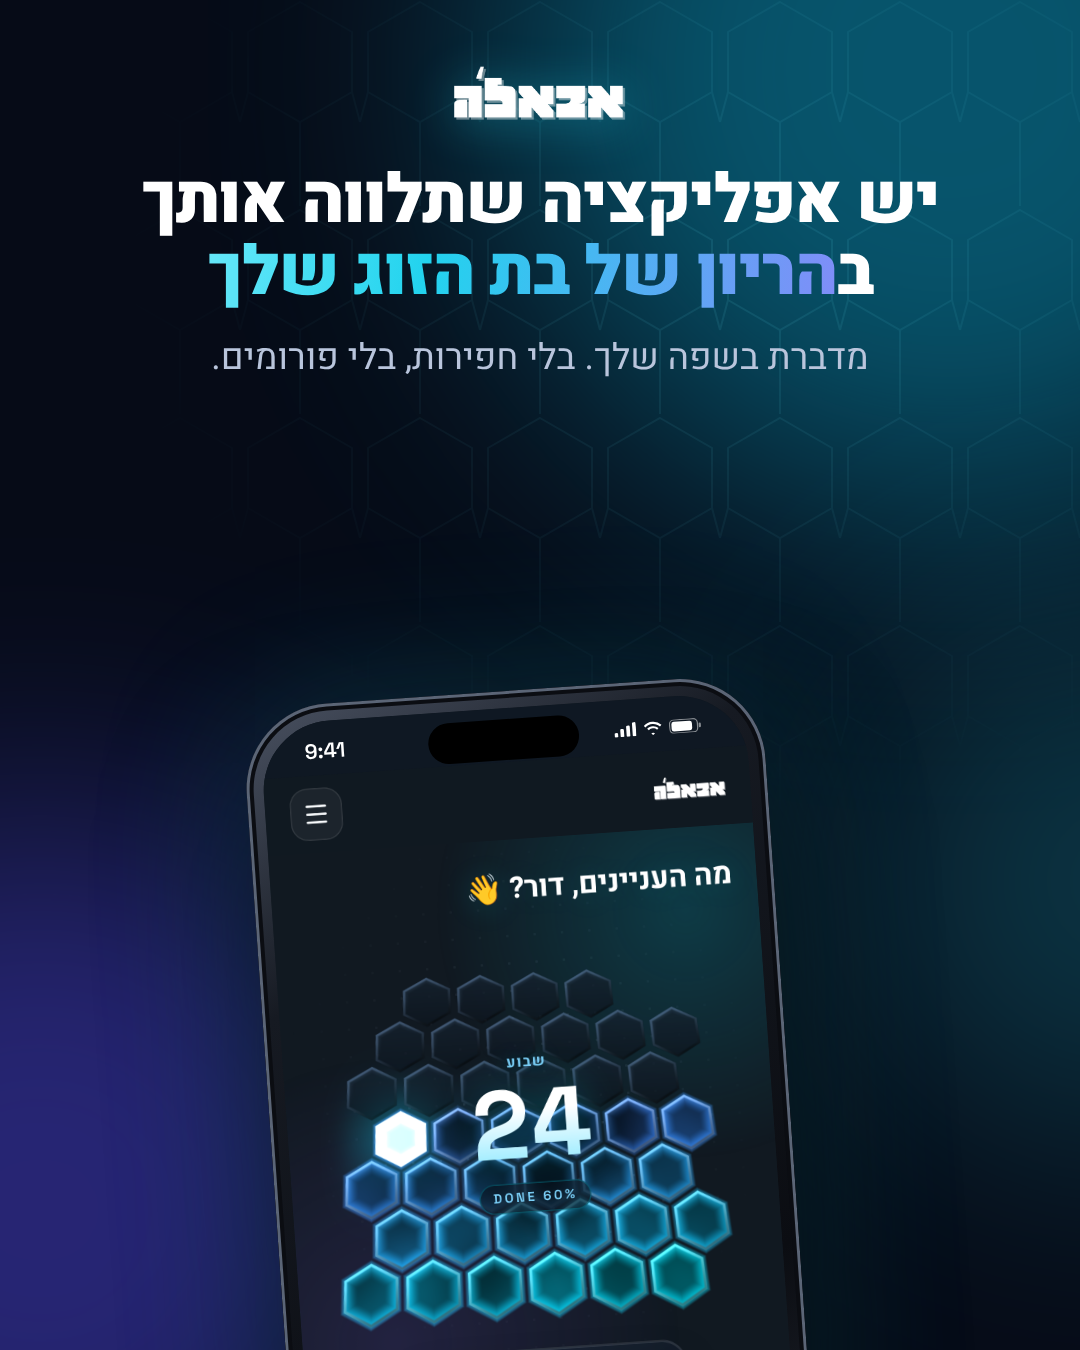
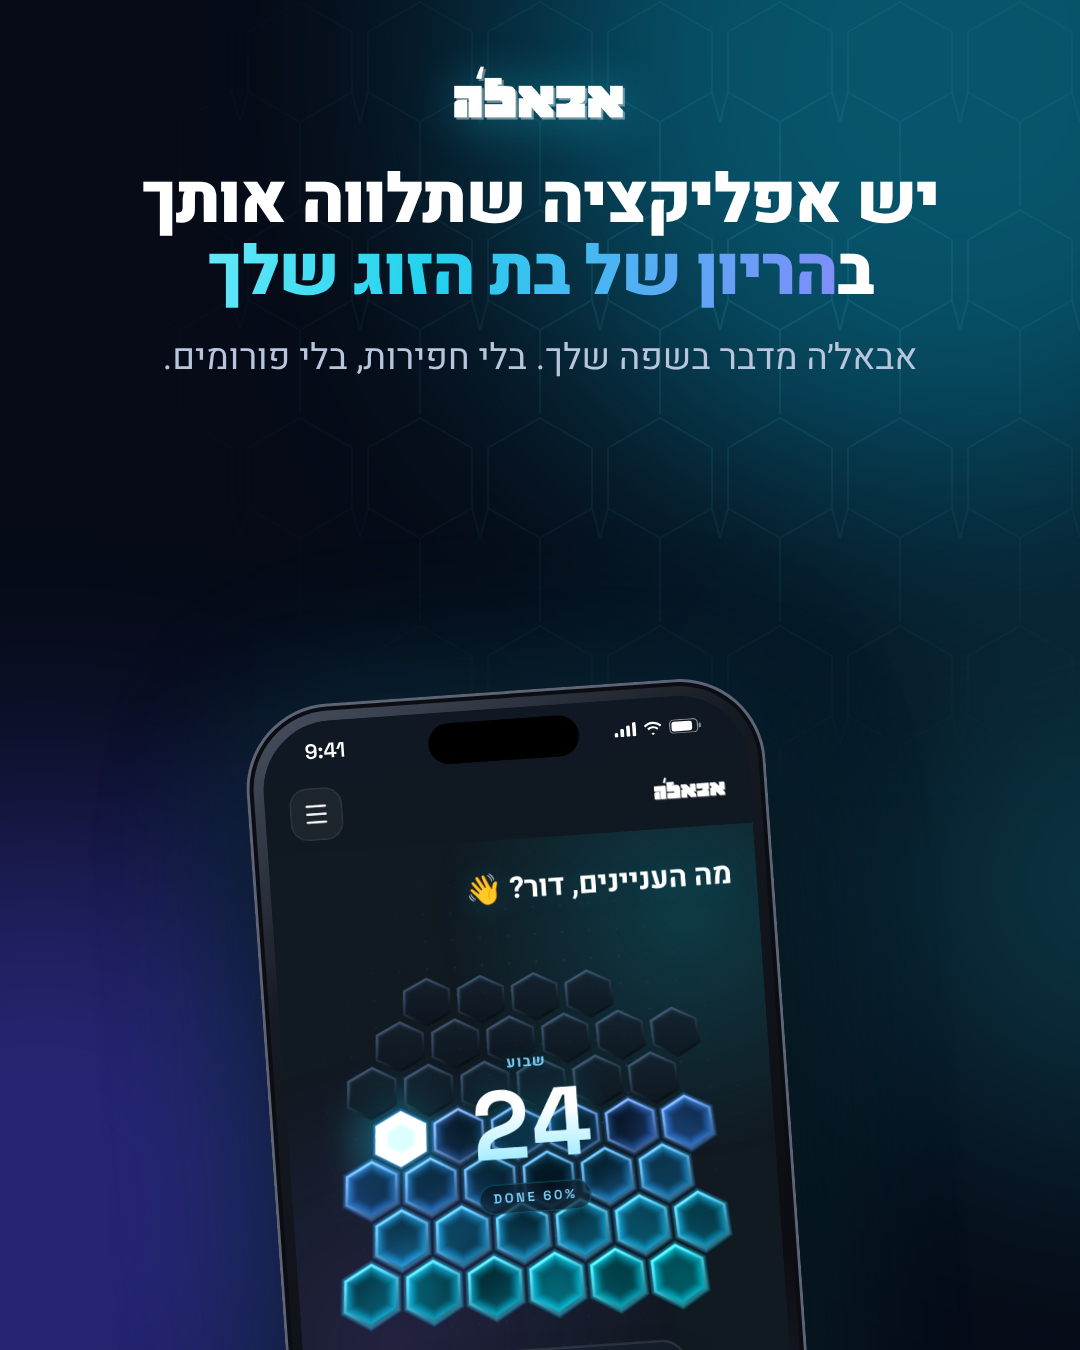
אבאל'ה בלשון זכר בפרסומות ובכיתובים
Claude-Session: https://claude.ai/code/session_01YWA97Ag6nK2YUFNDHResN8

Changed region(s): [[0.1528, 0.2489, 0.8556, 0.28]]

diff --git a/marketing/README.md b/marketing/README.md
@@ -23,7 +23,7 @@
 
 **03 – מה קורה עם בת הזוג**
 > היא עייפה, יש לה צרבות והגב כואב, ואתה לא בטוח מה עוזר.
-> כל שבוע אבאל'ה מסבירה מה עובר עליה ואיך אתה יכול לעזור. בלי לנחש.
+> כל שבוע אבאל'ה מסביר מה עובר עליה ואיך אתה יכול לעזור. בלי לנחש.
 
 **04 – משימות**
 > "מה אני יכול לעשות?" שאלה מצוינת. הנה רשימה.
@@ -54,7 +54,7 @@
 
 ## רעיונות לסרטוני טיקטוק (15–30 שניות)
 
-1. **"תרגום לאבא"** – אתה מול המצלמה. כתובית: "האפליקציות אומרות שהתינוק בגודל של חציל". חיתוך לפרצוף מבולבל. "אבאל'ה אומרת: נעל פקקים." חיתוך למסך האפליקציה. לחזור על זה עם 3–4 שבועות.
+1. **"תרגום לאבא"** – אתה מול המצלמה. כתובית: "האפליקציות אומרות שהתינוק בגודל של חציל". חיתוך לפרצוף מבולבל. "אבאל'ה אומר: נעל פקקים." חיתוך למסך האפליקציה. לחזור על זה עם 3–4 שבועות.
 2. **POV** – מצלמה מול הבן זוג. היא (מחוץ לפריים): "אני בשבוע 24". הוא מהנהן, ואז בהחבא פותח את אבאל'ה. כתובית: "עכשיו אני באמת מבין".
 3. **המייסד** – דבר למצלמה, 20 שניות: למה בנית את אבאל'ה, ומה הדבר שהכי חסר לך כאבא שבדרך. לסיים בגלילה באפליקציה.
 4. **"דברים שאף אחד לא אומר לאבא"** – רשימה מהירה (מטען עם כבל ארוך לחדר לידה, קפוא שם אז קח סווטשירט...) על רקע מסכי האפליקציה.
